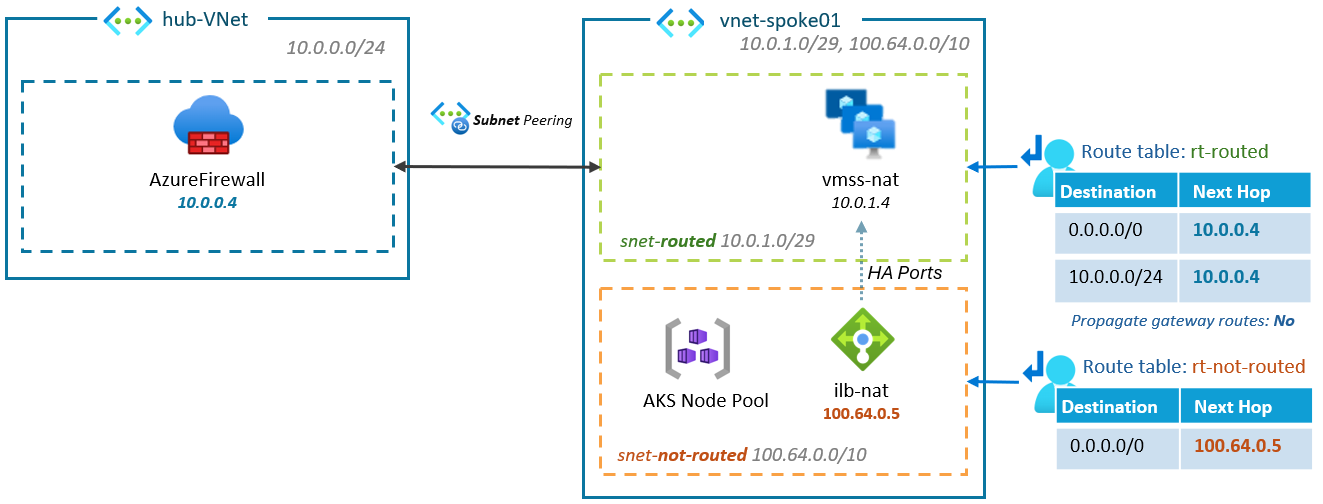
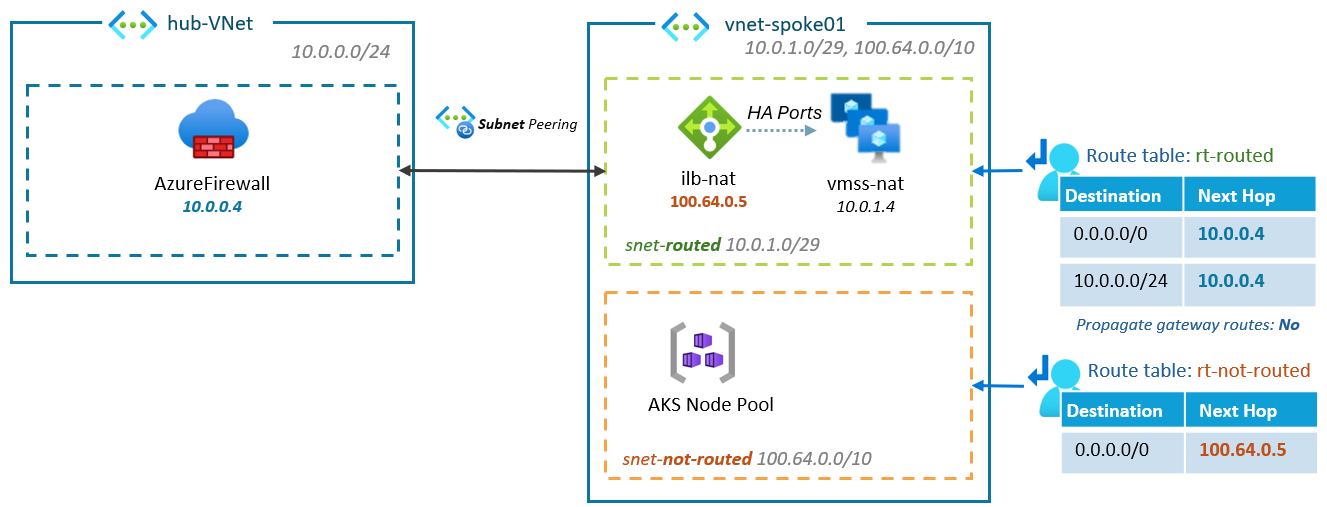
topology updated

diff --git a/README.md b/README.md
@@ -30,7 +30,7 @@ How can we ensure that all network traffic from the Node Pool passes through the
 This DIY solution involves the following:
 * Deploy a (multi-AZ) VMSS in the *snet-routed* subnet
 * Provision an Internal Load Balancer (ILB)
-    * Frontend IP: *snet-not-routed*
+    * Frontend IP: *snet-routed*
     * Backend Pool: VMSS
     * Load Balancing Rule: HA Ports
 * Route all traffic from the *snet-not-routed* subnet to the ILB's frontend IP using a Route Table.
@@ -64,11 +64,6 @@ iptables -t nat
 **Drawbacks**: 
 - This is not a managed service
 - Create a short init script to configure iptables on the VM according to its network interface.
-
-
-
-
-
 
 ## Solution #2: Azure Firewall 
 
